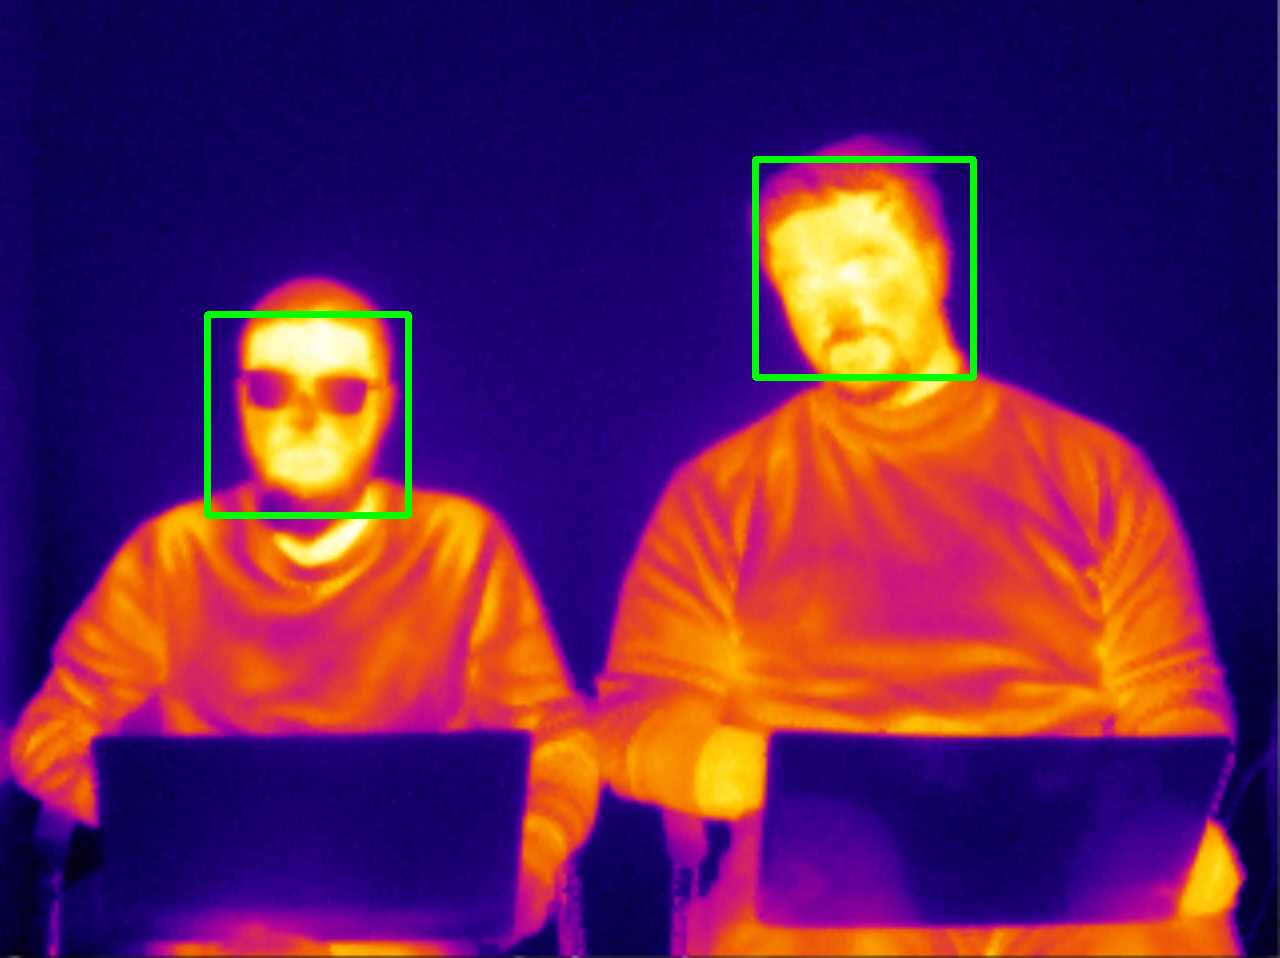
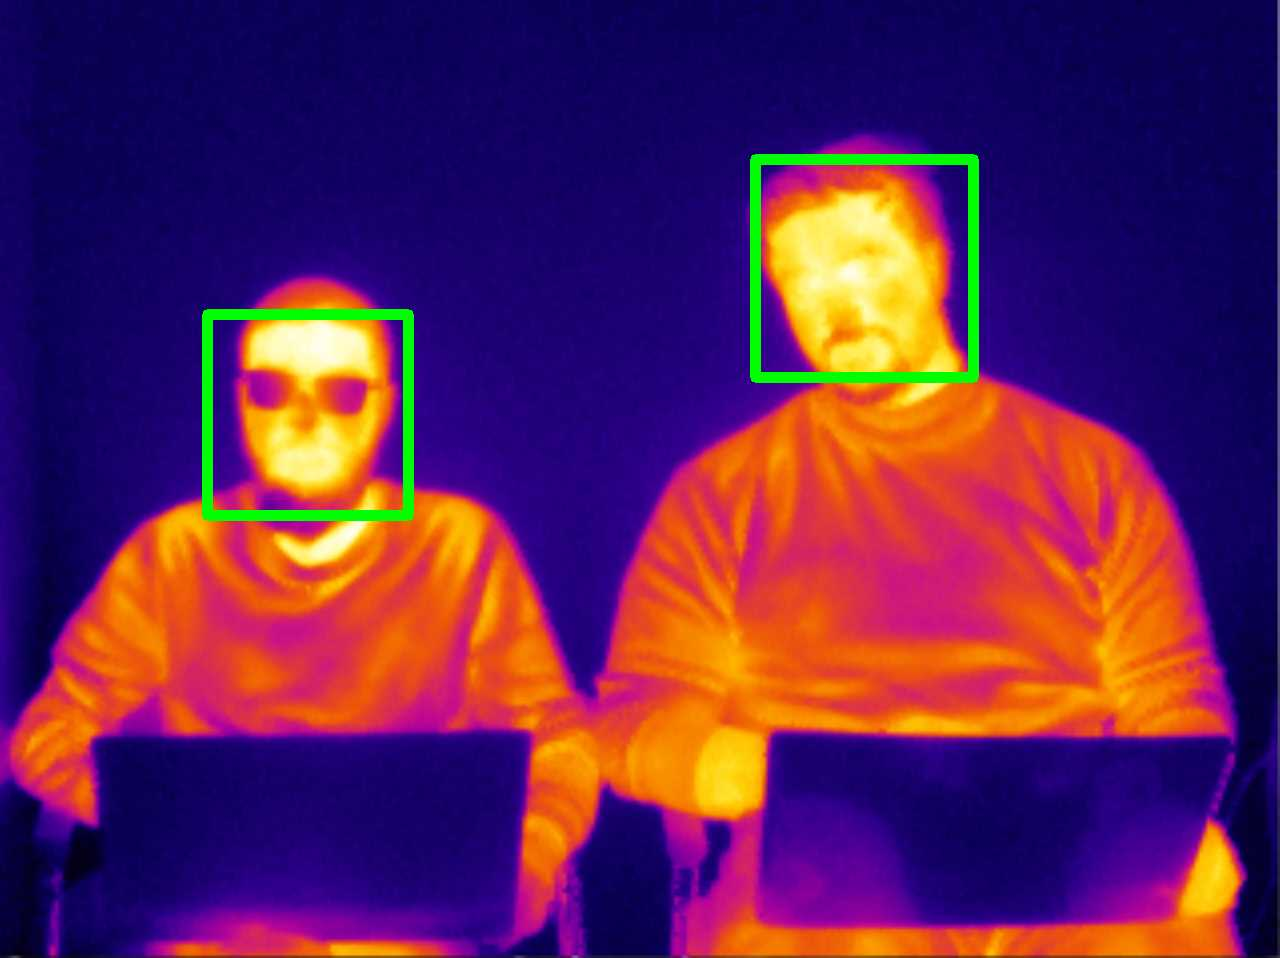
more pictures added

Changed region(s): [[0.5625, 0.1514, 0.7812, 0.4238], [0.1562, 0.3027, 0.3438, 0.5449]]

diff --git a/face_detection_DL_image.py b/face_detection_DL_image.py
@@ -4,10 +4,10 @@ import numpy as np
 # load our serialized dnn model from disk
 print("[BİLGİ] derin öğrenme modeli olan ResNet'i Caffe kütüphanesinden yüklüyor...")
 net = cv2.dnn.readNetFromCaffe('deploy.prototxt.txt', 'res10_300x300_ssd_iter_140000.caffemodel')
-conf = 0.15 # minimum probability to filter weak detections
+conf = 0.5 # minimum probability to filter weak detections
 # load the input image and construct an input blob for the image
 # by resizing to a fixed 300x300 pixels and then normalizing it
-imgName = "IMG_6707.jpg"
+imgName = "IR_00135.png"
 imgName, imgExtension = imgName.split('.')
 img = cv2.imread(f'image/{imgName}.{imgExtension}')
 (h, w) = img.shape[:2]
@@ -36,7 +36,7 @@ for i in range(0, detections.shape[2]):
 # save output image
 cv2.imwrite(f"result/{imgName}_conf_{conf}.jpg", img, [cv2.IMWRITE_JPEG_QUALITY, 50])
 # show the output image
-s = 0.15
+s = 0.5
 rimage = cv2.resize(img, (int(s*img.shape[1]), int(s*img.shape[0])), cv2.INTER_LINEAR)
 cv2.imshow("Face detection with deep learning", rimage)
 cv2.waitKey(0)

diff --git a/face_detection_HC_image.py b/face_detection_HC_image.py
@@ -1,7 +1,7 @@
 import cv2
 print("[BİLGİ] Haar Cascade yüz tespit edici'yi yüklüyor...")
 detector = cv2.CascadeClassifier("haarcascade_frontalface_default.xml")
-imgName = "IMG_6707.jpg"
+imgName = "IR_00135_RGB.png"
 imgName, imgExtension = imgName.split('.')
 img = cv2.imread(f"image/{imgName}.{imgExtension}")
 # Haar Cascade gri tonlu resimler üzerinde çalıştığından renk uzayı dönüşümü yapalım

diff --git a/README.md b/README.md
@@ -213,7 +213,7 @@ cv2.destroyAllWindows()
 
 <img src="result/deep_learning_face_detection_frame_2860.jpg" alt="Derin Öğrenme ile web cam üzerinde yüz tespiti" width="400" height=auto>
 
-<h2>Resimleri OpenCV'de numpy ile Birleştirma</h2>
+<h2>Resimleri OpenCV'de numpy ile Birleştirme</h2>
 <p>Bu kod deposunda yer alan <b>result</b> klasörü içerisinde iki tane örnek Python kodu var. O kodlara birleştirmek istediğiniz resim isimlerini girerek aşağıdaki gibi resimleri yan yana veya alt alta getirebilirsiniz.</p>
 
 <b>result/merge_image_1_by_2.py</b>
